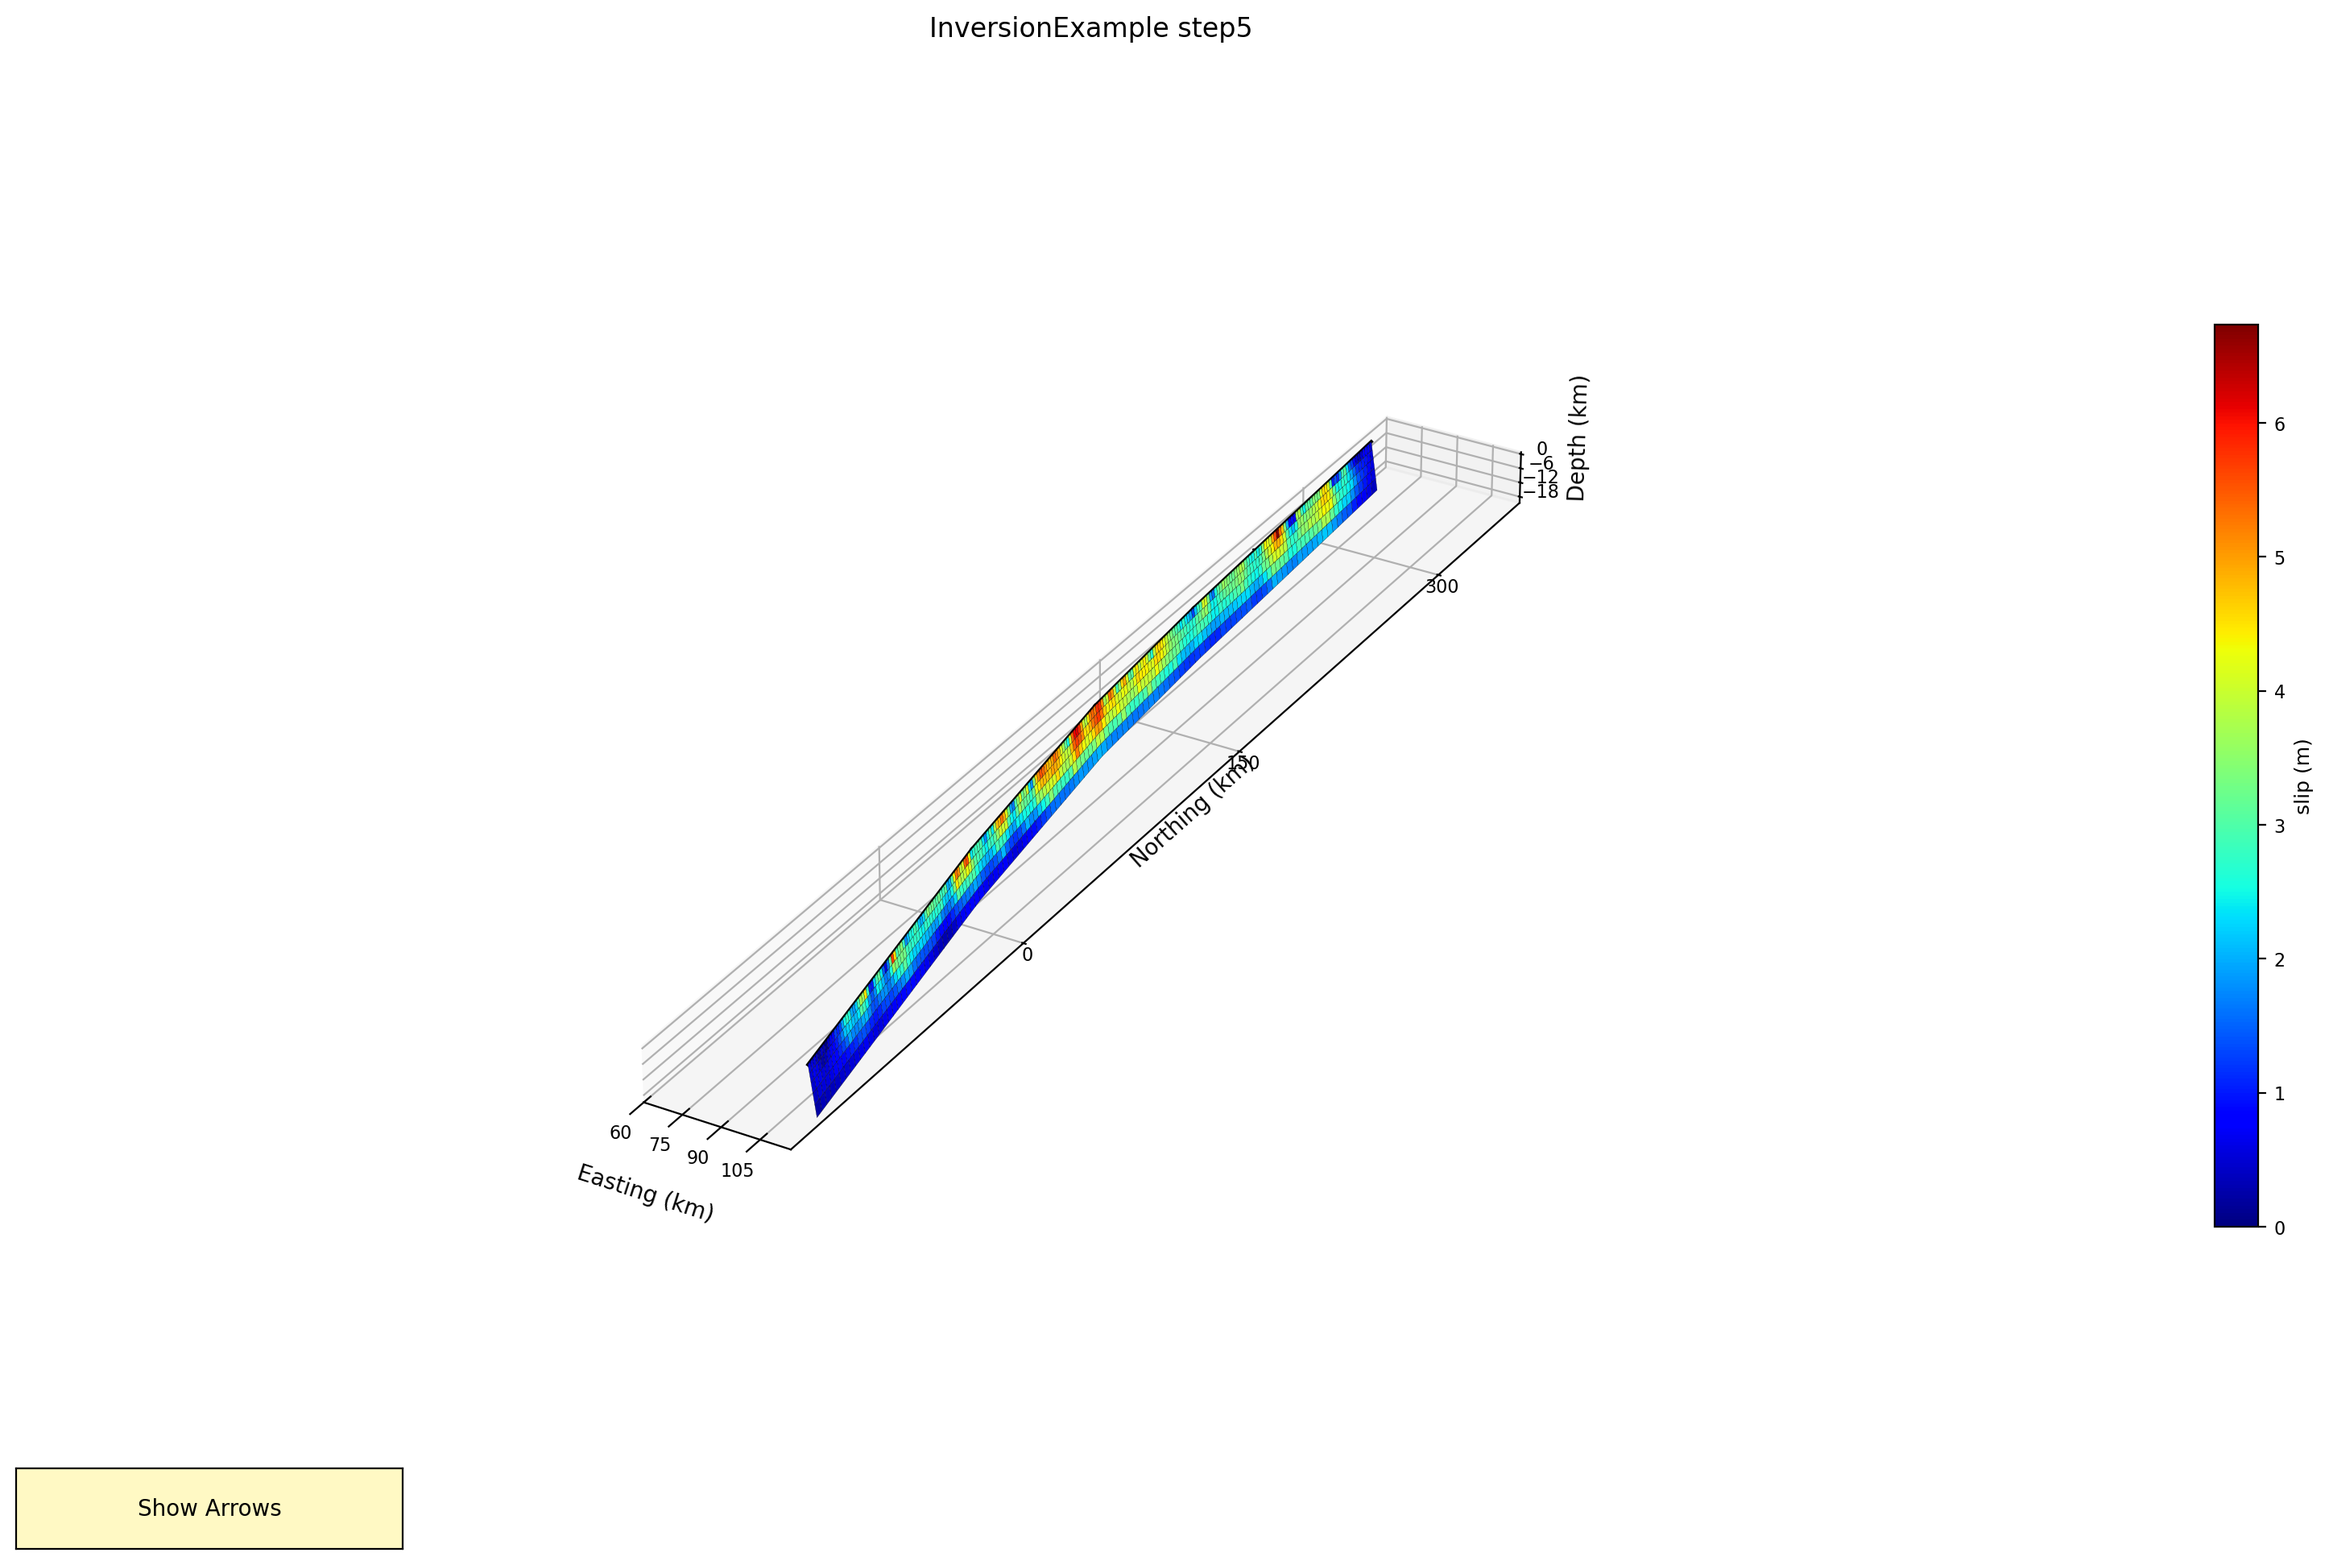
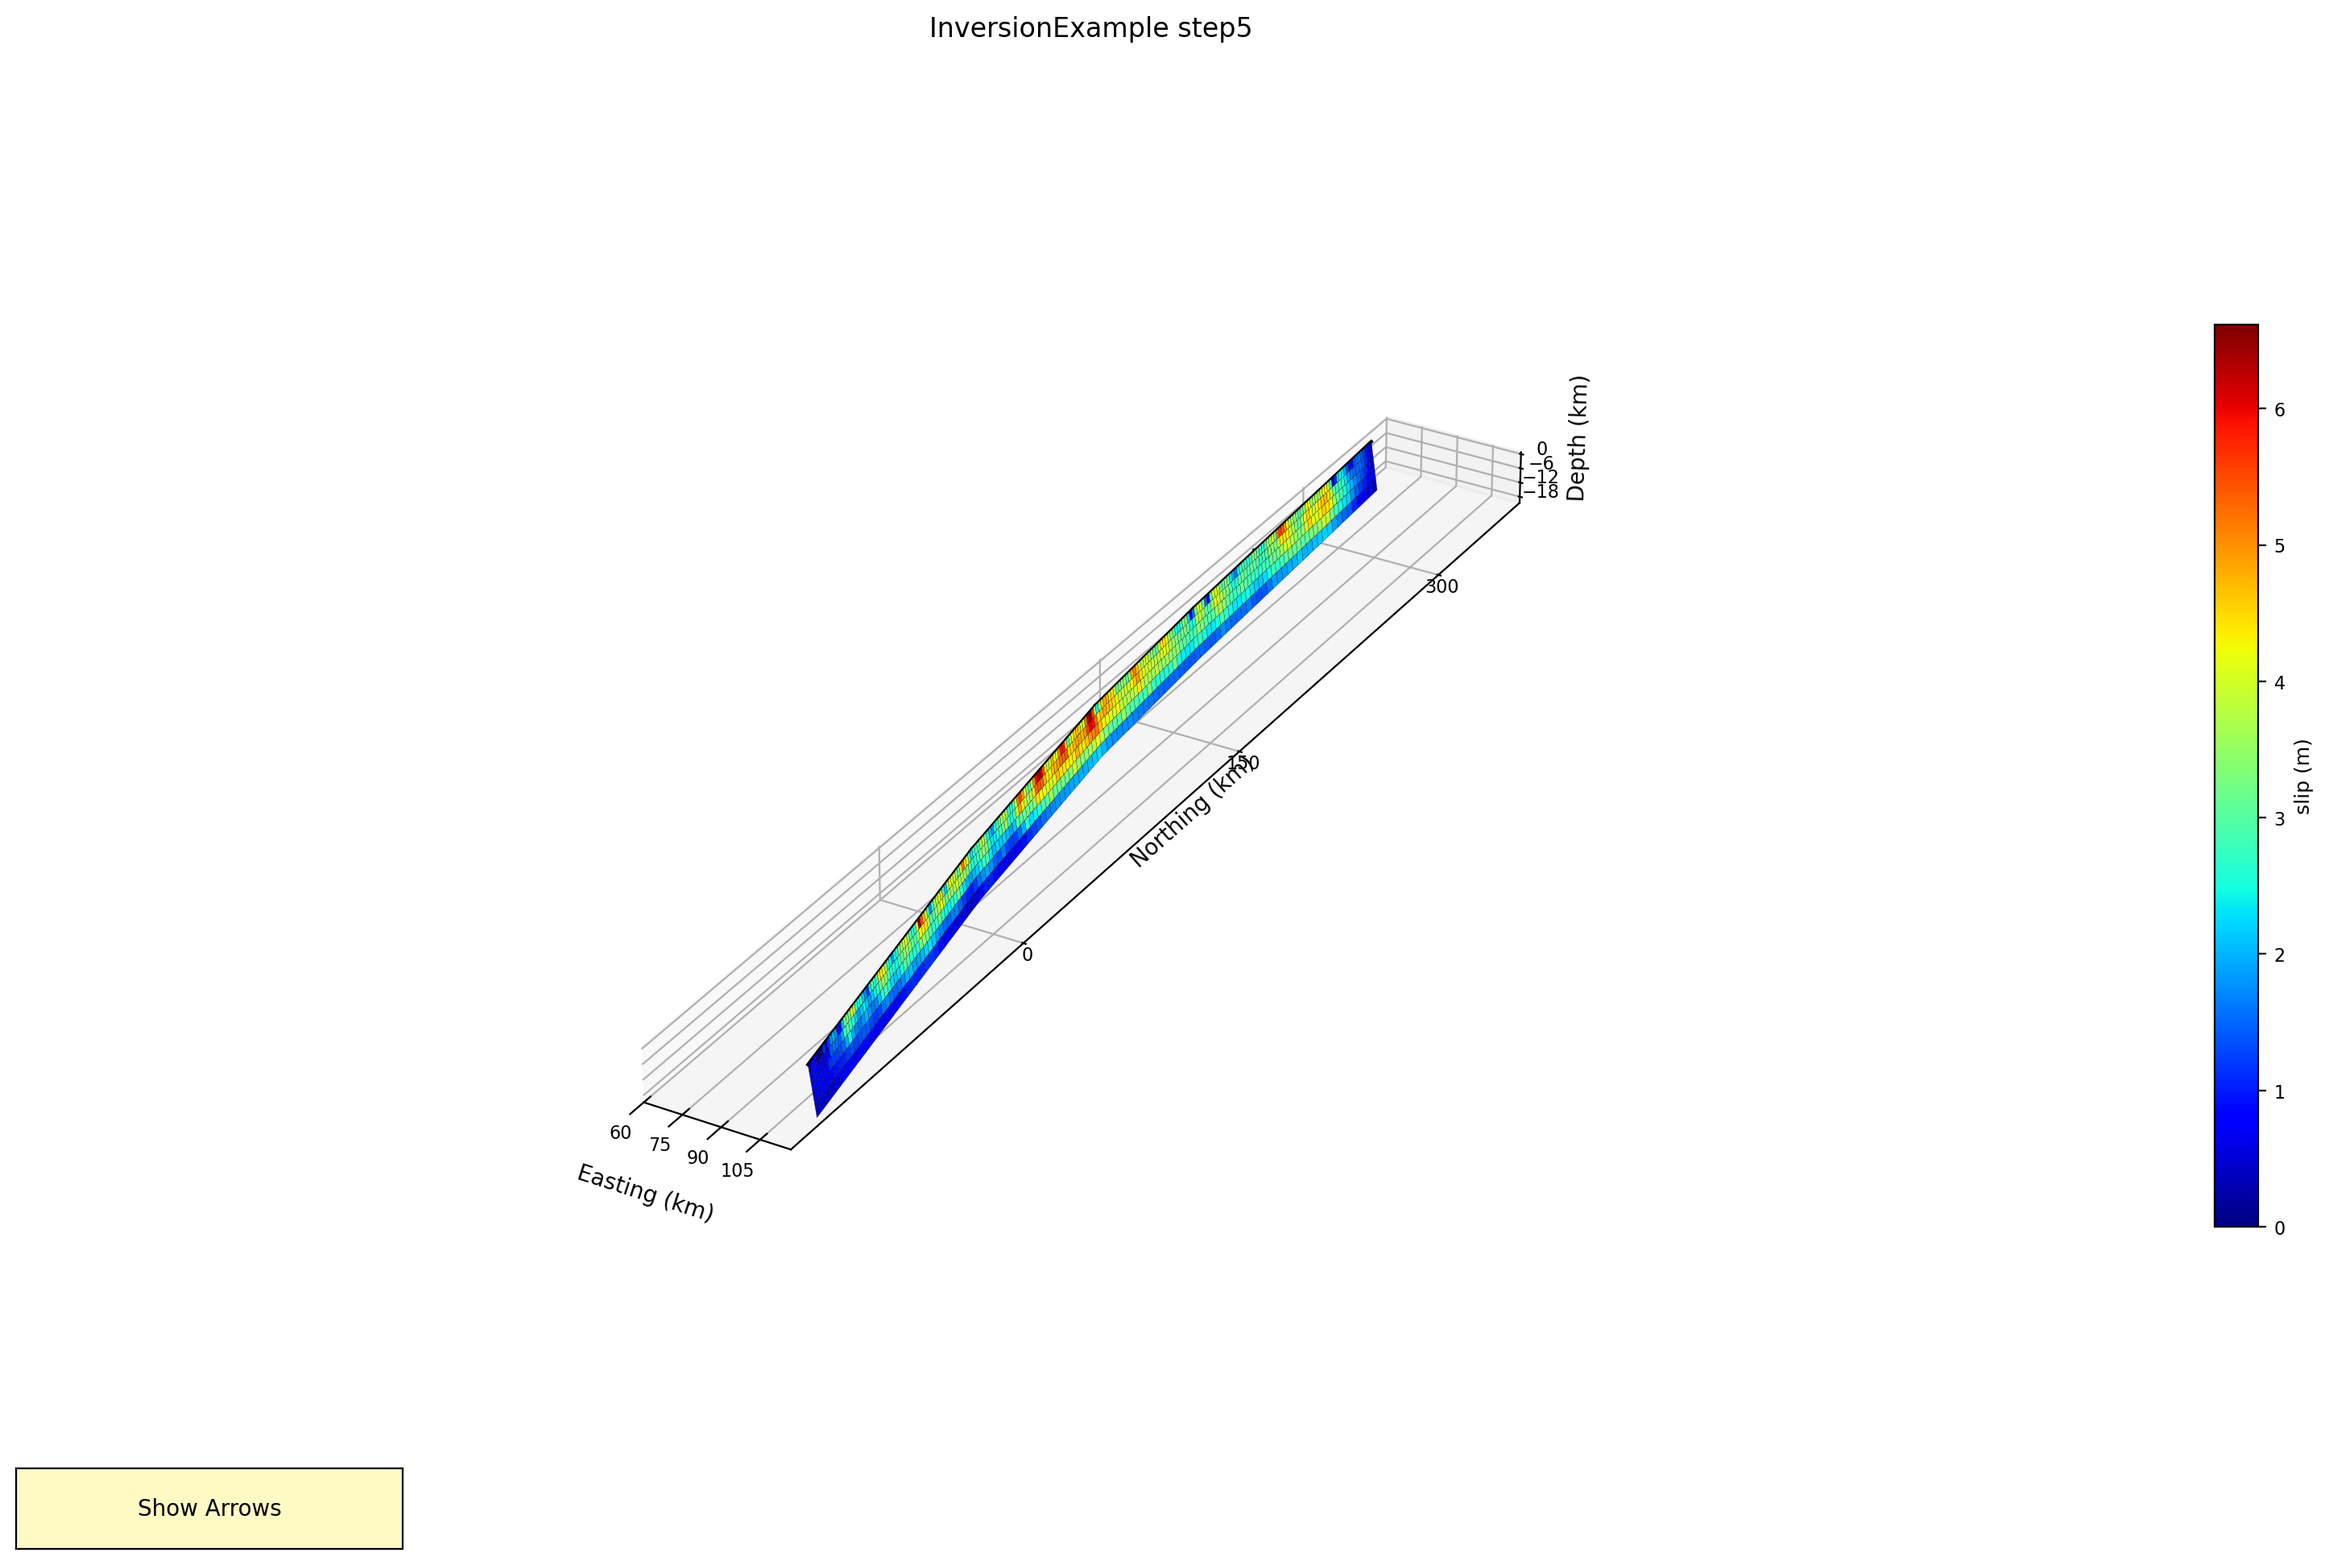
just sync

diff --git a/inversion_example_workflow.py b/inversion_example_workflow.py
@@ -344,7 +344,7 @@ def read_data_list(
             nmax.append(500)
         elif t == "azo":
             nmin.append(2)
-            nmax.append(40)
+            nmax.append(50)
         else:
             nmin.append(8)
             nmax.append(500)
@@ -813,8 +813,8 @@ def run_workflow_steps(
 
 if __name__ == "__main__":
     CONFIG_DIR: Optional[Union[str, os.PathLike]] = None
-    START_STEP = 6   # 3 | 5 | 6 | 7  (Step 0/4 始终自动执行)
-    END_STEP = 7
+    START_STEP = 5   # 3 | 5 | 6 | 7  (Step 0/4 始终自动执行)
+    END_STEP = 5
     SKIP_DOWNSAMPLE = True
     OUT_MAT: Optional[str] = None
     OUT_PNG: Optional[str] = None

diff --git a/input_data/script_downsamp/sample.py b/input_data/script_downsamp/sample.py
@@ -462,7 +462,7 @@ def iter_quad_downsample(
             best_out = out
 
         if verbose:
-            print(f"strain: {threshold:.4f} NUM: {ndata} (iter {it}, was {n_prev})")
+            print(f"threshold: {threshold:.4f} NUM: {ndata} (iter {it}, was {n_prev})")
             print(
                 "max_rms_out:",
                 float(np.max(out[:, 4])),
